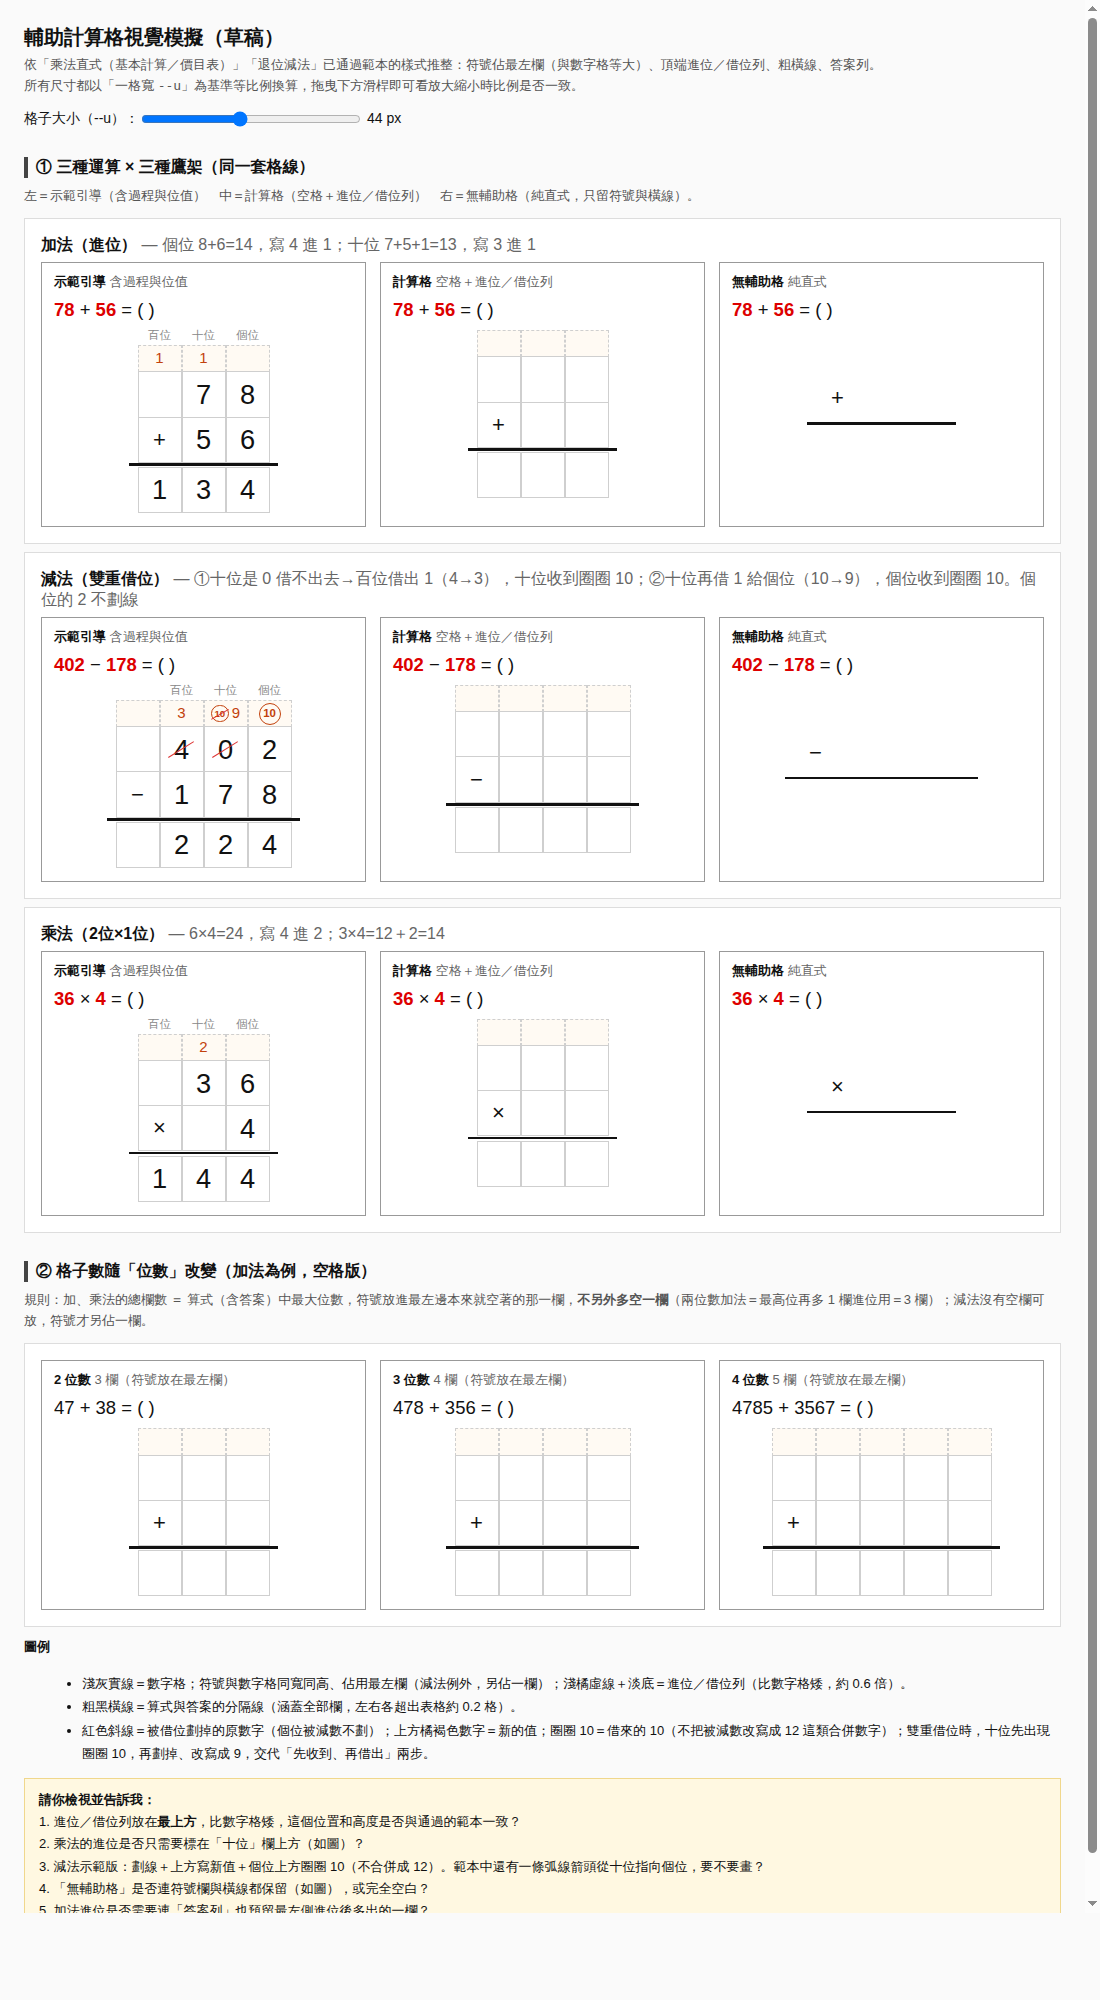
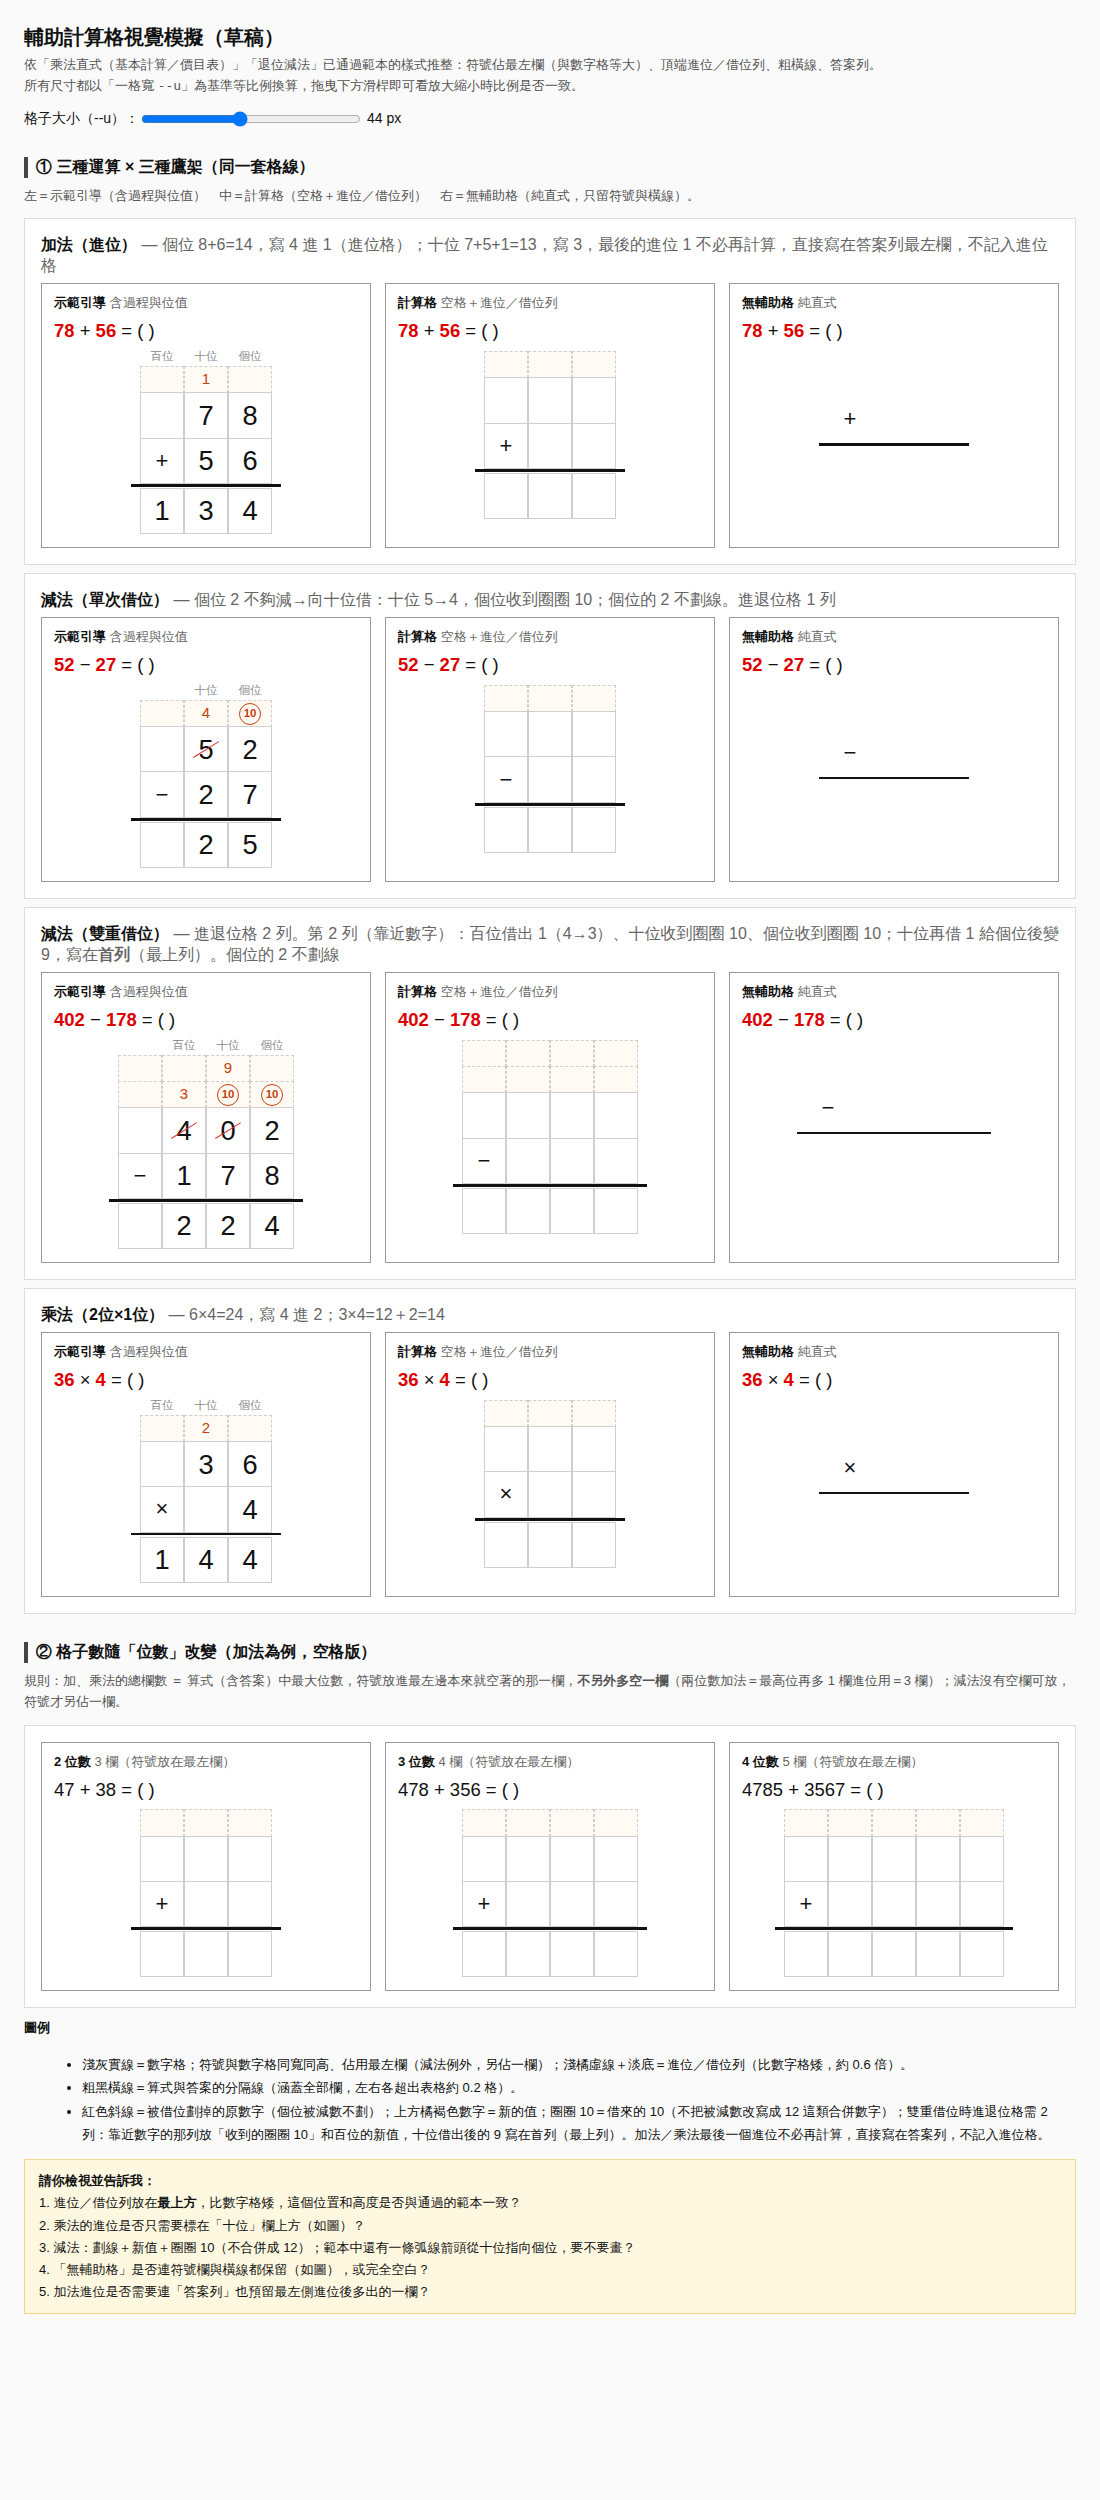
計算格模擬：最後進位直接寫答案列；雙重退位進退位格兩列
Claude-Session: https://claude.ai/code/session_012BHGRHE4qZD94g5LRgTFdn

diff --git a/docs/calc-grid-mock.html b/docs/calc-grid-mock.html
@@ -79,7 +79,7 @@
   <ul>
     <li>淺灰實線＝數字格；符號與數字格同寬同高、佔用最左欄（減法例外，另佔一欄）；淺橘虛線＋淡底＝進位／借位列（比數字格矮，約 0.6 倍）。</li>
     <li>粗黑橫線＝算式與答案的分隔線（涵蓋全部欄，左右各超出表格約 0.2 格）。</li>
-    <li>紅色斜線＝被借位劃掉的原數字（個位被減數不劃）；上方橘褐色數字＝新的值；圈圈 10＝借來的 10（不把被減數改寫成 12 這類合併數字）；雙重借位時，十位先出現圈圈 10，再劃掉、改寫成 9，交代「先收到、再借出」兩步。</li>
+    <li>紅色斜線＝被借位劃掉的原數字（個位被減數不劃）；上方橘褐色數字＝新的值；圈圈 10＝借來的 10（不把被減數改寫成 12 這類合併數字）；雙重借位時進退位格需 2 列：靠近數字的那列放「收到的圈圈 10」和百位的新值，十位借出後的 9 寫在首列（最上列）。加法／乘法最後一個進位不必再計算，直接寫在答案列，不記入進位格。</li>
   </ul>
 </div>
 
@@ -87,7 +87,7 @@
   <b>請你檢視並告訴我：</b><br>
   1. 進位／借位列放在<b>最上方</b>，比數字格矮，這個位置和高度是否與通過的範本一致？<br>
   2. 乘法的進位是否只需要標在「十位」欄上方（如圖）？<br>
-  3. 減法示範版：劃線＋上方寫新值＋個位上方圈圈 10（不合併成 12）。範本中還有一條弧線箭頭從十位指向個位，要不要畫？<br>
+  3. 減法：劃線＋新值＋圈圈 10（不合併成 12）；範本中還有一條弧線箭頭從十位指向個位，要不要畫？<br>
   4. 「無輔助格」是否連符號欄與橫線都保留（如圖），或完全空白？<br>
   5. 加法進位是否需要連「答案列」也預留最左側進位後多出的一欄？
 </div>
@@ -112,15 +112,17 @@ function grid(cfg, level) {
     if (sc) { const s = document.createElement('div'); s.className = 'ph sign'; g.appendChild(s); }
     for (let i = 0; i < n; i++) { const d = document.createElement('div'); d.className = 'ph'; d.style.textAlign = 'center'; d.textContent = names[n-1-i] + '位'; g.appendChild(d); }
   }
-  // 進位／借位列（無輔助格不畫）
-  if (sc) g.appendChild(cell('up sign'));
-  for (let i = 0; i < n; i++) {
-    const v = level === 'demo' && cfg.up ? (cfg.up[i] ?? '') : '';
-    const c = cell('up', v === '⑩' ? null : v);
-    if (v === '⑩>9') { c.innerHTML = '<span class="circ sm gone">10</span><span style="margin-left:2px">9</span>'; c.style.gap = '1px'; }   // 十位：先收到百位借來的 10（圈圈10），再借 1 給個位 → 變 9
-    else if (v === '⑩') c.innerHTML = '<span class="circ">10</span>';   // 圈圈 10：借來的 10，寫在個位上方，不與原數字合併
-    g.appendChild(c);
-  }
+  // 進位／借位列（無輔助格不畫）。cfg.up 可為一列（字串陣列）或多列（陣列的陣列，由上而下＝首列在最上）
+  const ups = cfg.up ? (Array.isArray(cfg.up[0]) ? cfg.up : [cfg.up]) : [[]];
+  ups.forEach(row => {
+    if (sc) g.appendChild(cell('up sign'));
+    for (let i = 0; i < n; i++) {
+      const v = level === 'demo' ? (row[i] ?? '') : '';
+      const c = cell('up', v === '⑩' ? null : v);
+      if (v === '⑩') c.innerHTML = '<span class="circ">10</span>';   // 圈圈 10：借來的 10，不與原數字合併
+      g.appendChild(c);
+    }
+  });
   // 算式列
   cfg.rows.forEach((r, ri) => {
     if (sc) g.appendChild(cell('sign', r.sign || ''));
@@ -143,13 +145,18 @@ const CASES = [
   { op: '加法（進位）', eq: '<b>78</b> + <b>56</b> = ( )',
     cfg: { n: 3, ph: true,
       rows: [ { digits: ['', 7, 8] }, { sign: '+', digits: ['', 5, 6] } ],
-      up: ['1', '1', ''], ans: [1, 3, 4] },
-    note: '個位 8+6=14，寫 4 進 1；十位 7+5+1=13，寫 3 進 1' },
+      up: ['', '1', ''], ans: [1, 3, 4] },
+    note: '個位 8+6=14，寫 4 進 1（進位格）；十位 7+5+1=13，寫 3，最後的進位 1 不必再計算，直接寫在答案列最左欄，不記入進位格' },
+  { op: '減法（單次借位）', eq: '<b>52</b> − <b>27</b> = ( )',
+    cfg: { n: 2, ph: true, signCol: true,
+      rows: [ { digits: [5, 2] }, { sign: '−', digits: [2, 7] } ],
+      up: ['4', '⑩'], strike: { 0: [0] }, ans: [2, 5] },
+    note: '個位 2 不夠減→向十位借：十位 5→4，個位收到圈圈 10；個位的 2 不劃線。進退位格 1 列' },
   { op: '減法（雙重借位）', eq: '<b>402</b> − <b>178</b> = ( )',
     cfg: { n: 3, ph: true, signCol: true,
       rows: [ { digits: [4, 0, 2] }, { sign: '−', digits: [1, 7, 8] } ],
-      up: ['3', '⑩>9', '⑩'], strike: { 0: [0, 1] }, ans: [2, 2, 4] },
-    note: '①十位是 0 借不出去→百位借出 1（4→3），十位收到圈圈 10；②十位再借 1 給個位（10→9），個位收到圈圈 10。個位的 2 不劃線' },
+      up: [ ['', '9', ''], ['3', '⑩', '⑩'] ], strike: { 0: [0, 1] }, ans: [2, 2, 4] },
+    note: '進退位格 2 列。第 2 列（靠近數字）：百位借出 1（4→3）、十位收到圈圈 10、個位收到圈圈 10；十位再借 1 給個位後變 9，寫在<b>首列</b>（最上列）。個位的 2 不劃線' },
   { op: '乘法（2位×1位）', eq: '<b>36</b> × <b>4</b> = ( )',
     cfg: { n: 3, ph: true,
       rows: [ { digits: ['', 3, 6] }, { sign: '×', digits: ['', '', 4] } ],
